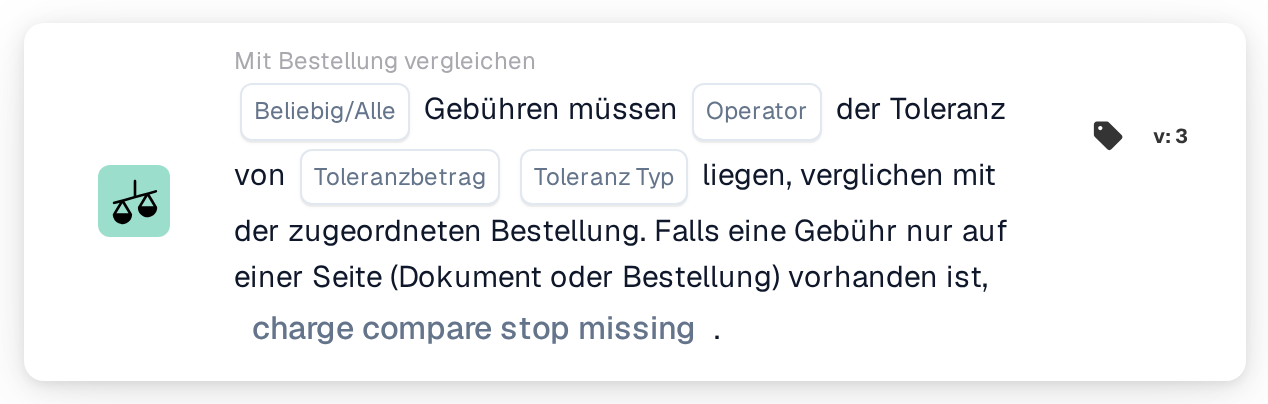
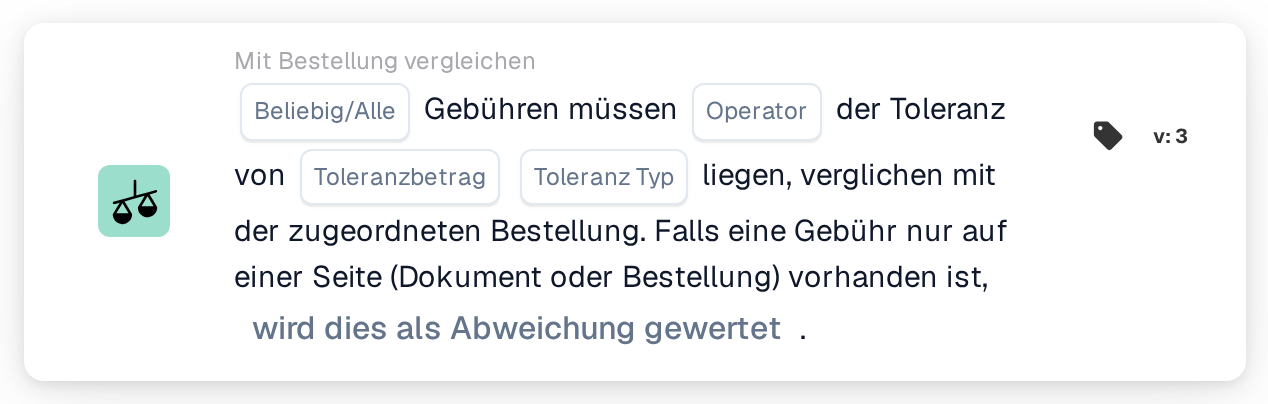
[Documentation_Workflow_Cards] [DRFS-871] add compare charges to po v4

Changed region(s): [[0.1845, 0.7723, 0.6151, 0.8614]]

diff --git a/public_docs/administration-and-setup/workflow/and/compare-with-purchase-order/any-all-charges.md b/public_docs/administration-and-setup/workflow/and/compare-with-purchase-order/any-all-charges.md
@@ -4,6 +4,8 @@
 
 <figure><img src="../../../../.gitbook/assets/workflow_card_condition_compare_charges_to_po_v3-de-de.png" alt="Beliebige oder alle Gebühren, Version 3" width="634"><figcaption><p>Version 3</p></figcaption></figure>
 
+<figure><img src="../../../../.gitbook/assets/workflow_card_condition_compare_charges_to_po_v4-de-de.png" alt="Workflow-Karte Mit Bestellung vergleichen: Beliebig/Alle Gebühren müssen Operator der Toleranz von Toleranzbetrag Toleranz Typ liegen, verglichen mit der zugeordneten Bestellung; eine Gebühr von 0,00 wird ebenfalls verglichen. Falls eine Gebühr nur auf einer Seite (Dokument oder Bestellung) vorhanden ist, Verhalten bei fehlenden Daten, Version 4" width="634"><figcaption><p>Version 4</p></figcaption></figure>
+
 ## **Zweck:**
 
 Diese Workflow-Karte vergleicht die Zusatzkosten eines Dokuments mit den Zusatzkosten der zugeordneten Bestellung, innerhalb einer festgelegten Toleranz. Sie beantwortet eine einzige Frage: Stimmen Dokument und Bestellung in den Zusatzkosten überein? Verglichen wird jede Gebühr, die der Bestellabgleich einander zugeordnet hat, weshalb auf der Karte kein Feldname angegeben werden muss.
@@ -31,8 +33,8 @@ Der Bestellabgleich muss vor dieser Karte laufen. Hat das Dokument keine zugeord
    * **Optionen**:
      * **Prozentsatz**: ein Prozentsatz der Bestellgebühr.
      * **Wert**: ein fester Betrag.
-5. **Verhalten bei fehlenden Daten (nur Version 3):**
-   * **Beschreibung**: Was geschehen soll, wenn eine Gebühr nur auf einer Seite vorhanden ist, im Dokument oder in der Bestellung, sodass es kein Gegenstück zum Vergleich gibt. Die Option steht am Ende des Satzes der Version 3.
+5. **Verhalten bei fehlenden Daten (Versionen 3 und 4):**
+   * **Beschreibung**: Was geschehen soll, wenn eine Gebühr nur auf einer Seite vorhanden ist, im Dokument oder in der Bestellung, sodass es kein Gegenstück zum Vergleich gibt. Die Option steht am Ende des Satzes.
    * **Optionen**:
      * **wird dies als Abweichung gewertet**: der Workflow stoppt. Das ist die Voreinstellung.
      * **Ignorieren Sie es und behandeln Sie es als Übereinstimmung.**: der Workflow läuft weiter, als hätte die Gebühr übereingestimmt.
@@ -43,7 +45,7 @@ Die Karte durchläuft die folgenden Schritte.
 
 1. **Sie setzt eine zugeordnete Bestellung voraus.** Ohne zugeordnete Bestellung stoppt die Karte sofort und meldet fehlende Daten.
 2. **Sie liest die Toleranz** aus **Toleranzbetrag** und **Toleranz Typ** auf der Karte.
-3. **Version 3 sortiert jede zugeordnete Bestellposition** in eine von vier Situationen ein und fragt dabei nur, ob eine Seite überhaupt Gebühren trägt: Gebühren auf beiden Seiten, keine Gebühren auf beiden Seiten, Gebühren nur im Dokument oder Gebühren nur in der Bestellung. Eine Position, die den Bestelldaten des Dokuments nicht zugeordnet werden kann, ist ein Datenfehler und die Karte stoppt.
+3. **Versionen 3 und 4 sortieren jede zugeordnete Bestellposition** in eine von vier Situationen ein: Gebühren auf beiden Seiten, keine Gebühren auf beiden Seiten, Gebühren nur im Dokument oder Gebühren nur in der Bestellung. Version 3 fragt nur, ob eine Seite eine Gebühr über 0,00 trägt. Version 4 betrachtet jedes Gebührenpaar und zählt 0,00 als Wert; nur eine Gebühr ganz ohne Betrag gilt als fehlend. Siehe **Unterschiede zwischen den Versionen** unten. Eine Position, die den Bestelldaten des Dokuments nicht zugeordnet werden kann, ist ein Datenfehler und die Karte stoppt.
 4. **Eine Gebühr auf nur einer Seite entscheidet die gesamte Karte.** Sobald eine zugeordnete Position Gebühren auf einer Seite und keine auf der anderen trägt, entscheidet **Verhalten bei fehlenden Daten** das Ergebnis, und es wird überhaupt keine Gebühr verglichen, auch nicht die Gebühren korrekt zugeordneter Positionen. Operator und Toleranz werden nicht herangezogen.
 5. **Trägt keine Position auf einer der beiden Seiten Gebühren**, stimmen beide Seiten darin überein, dass es keine Zusatzkosten gibt. Der Operator **Außerhalb** ist damit nicht erfüllt, weil nichts über die Toleranz hinaus abweicht, und der Workflow stoppt. Jeder andere Operator wertet die Übereinstimmung als erfüllt und der Workflow läuft weiter. **Verhalten bei fehlenden Daten** hat hier keine Wirkung.
 6. **Andernfalls wird jede Gebühr verglichen**, Dokumentbetrag gegen Bestellbetrag, mit Operator und Toleranz. Ein Gebührenbetrag, der keine Zahl ist, stoppt die Karte mit fehlenden Daten.
@@ -57,7 +59,7 @@ Drei Folgen sind vor dem Konfigurieren der Karte wichtig zu wissen.
 
 ## **Einrichtung und Konfiguration:**
 
-Fügen Sie die Karte als And-Bedingung nach dem Bestellabgleich ein. Wählen Sie, ob jede oder irgendeine Gebühr den Vergleich erfüllen muss, wählen Sie den Operator **innerhalb** oder **Außerhalb** und geben Sie Toleranzbetrag und Toleranz Typ ein. Wählen Sie in Version 3, was geschehen soll, wenn Gebühren nur auf einer Seite auftreten.
+Fügen Sie die Karte als And-Bedingung nach dem Bestellabgleich ein. Wählen Sie, ob jede oder irgendeine Gebühr den Vergleich erfüllen muss, wählen Sie den Operator **innerhalb** oder **Außerhalb** und geben Sie Toleranzbetrag und Toleranz Typ ein. Wählen Sie in den Versionen 3 und 4, was geschehen soll, wenn Gebühren nur auf einer Seite auftreten.
 
 Um eine Konfiguration ohne Warten auf ein Dokument zu prüfen, öffnen Sie das Kartenmenü im Workflow Builder, wählen **Testkarte**, wählen ein Dokument und dann **Test auf Dokument**. Das Kartenprotokoll listet jede verglichene Gebühr mit beiden Beträgen, dem Operator und der verwendeten Toleranz auf und hält außerdem fest, welcher Wert von **Verhalten bei fehlenden Daten** das Ergebnis entschieden hat, wenn eine Gebühr nur auf einer Seite vorhanden war.
 
@@ -71,9 +73,25 @@ Trägt weder die Auftragsbestätigung noch die Bestellung eine Gebühr, wertet d
 
 Trägt die Auftragsbestätigung eine Frachtgebühr und die Bestellung keine, gilt der Operator nicht mehr. Mit **wird dies als Abweichung gewertet** stoppt der Workflow, damit jemand prüfen kann, warum die Gebühr nur auf einer Seite steht.
 
+Zeigt die Auftragsbestätigung die Frachtgebühr mit 0,00, während die Bestellung 204,00 trägt, vergleicht Version 4 die beiden Beträge und der Workflow stoppt mit einer nicht erfüllten Bedingung. Version 3 würde die 0,00 als "keine Gebühr im Dokument" lesen und das Ergebnis **Verhalten bei fehlenden Daten** überlassen.
+
 ## **Unterschiede zwischen den Versionen:**
 
-Version 3 verwenden neue Karten. Version 2 wird in bestehenden Workflows weiter unterstützt. Beide Versionen vergleichen je Gebühr und fassen die Ergebnisse dokumentweit mit der Einstellung **Beliebig/Alle** zusammen, aber Version 2 hat keine Fallunterscheidung, was ändert, was geschieht, sobald Gebühren nicht auf beiden Seiten vorhanden sind:
+Version 4 verwenden neue Karten. Versionen 2 und 3 werden in bestehenden Workflows weiter unterstützt.
+
+### Version 4 im Vergleich zu Version 3
+
+Beide Versionen haben dieselben Einstellungen und dieselben Schritte. Sie unterscheiden sich nur darin, wie eine Gebühr von 0,00 behandelt wird:
+
+* **Version 3 wertet 0,00 als keine Gebühr.** Eine Dokumentgebühr von 0,00, der eine Bestellgebühr von 204,00 zugeordnet ist, zählt als "die Bestellung hat Gebühren, das Dokument keine", sodass **Verhalten bei fehlenden Daten** entscheidet und die Beträge nie verglichen werden. Mit **Ignorieren Sie es und behandeln Sie es als Übereinstimmung.** läuft der Workflow weiter, obwohl die Beträge abweichen.
+* **Version 4 vergleicht 0,00 als Betrag.** Dasselbe Paar wird wie jedes andere verglichen: 0,00 gegen 204,00 liegt nicht innerhalb der Toleranz, sodass der Workflow mit einer nicht erfüllten Bedingung stoppt. Ein Paar mit 0,00 auf beiden Seiten wird ebenfalls verglichen und stimmt überein.
+* **Eine Gebühr ohne Betrag fehlt auch in Version 4.** Hat eine Seite eines Paares überhaupt keinen Betrag, zum Beispiel eine Gebühr, die die Bestellung nicht trägt, entscheidet **Verhalten bei fehlenden Daten**, wie in Version 3.
+
+Um dieses Verhalten in einem bestehenden Workflow zu erhalten, ersetzen Sie die Karte der Version 3 durch eine Karte der Version 4 und stellen dieselben Werte ein.
+
+### Version 2
+
+Auch Version 2 vergleicht je Gebühr und fasst die Ergebnisse dokumentweit mit der Einstellung **Beliebig/Alle** zusammen, hat aber keine Fallunterscheidung, was ändert, was geschieht, sobald Gebühren nicht auf beiden Seiten vorhanden sind:
 
 * Version 2 hat keine Option **Verhalten bei fehlenden Daten**. Ihr Satz endet nach dem Toleranz Typ.
 * Version 2 sortiert die zugeordneten Positionen nicht und erkennt daher keine Gebühr, die nur auf einer Seite vorhanden ist. Sie vergleicht den vorhandenen Betrag gegen die 0,00 der fehlenden Seite, und der Operator entscheidet: **innerhalb** ist nicht erfüllt und der Workflow stoppt, **Außerhalb** ist erfüllt und der Workflow läuft weiter. Das Kartenprotokoll zeigt den Vergleich gegen 0,00.
@@ -81,4 +99,4 @@ Version 3 verwenden neue Karten. Version 2 wird in bestehenden Workflows weiter 
 
 ## **Fazit:**
 
-Die Karte "Any / All Charges" automatisiert die Prüfung, dass die in Rechnung gestellten oder bestätigten Zusatzkosten den bestellten Zusatzkosten entsprechen. Da das Fehlen von Gebühren auf beiden Seiten in Version 3 als Übereinstimmung gilt, laufen Dokumente ohne Zusatzkosten ohne manuellen Eingriff durch, während Gebühren, die nur auf einer Seite auftreten, zur Prüfung zurückgehalten werden, sofern das nicht ausdrücklich erlaubt wird.
+Die Karte "Any / All Charges" automatisiert die Prüfung, dass die in Rechnung gestellten oder bestätigten Zusatzkosten den bestellten Zusatzkosten entsprechen. Da das Fehlen von Gebühren auf beiden Seiten in den Versionen 3 und 4 als Übereinstimmung gilt, laufen Dokumente ohne Zusatzkosten ohne manuellen Eingriff durch, während Gebühren, die nur auf einer Seite auftreten, zur Prüfung zurückgehalten werden, sofern das nicht ausdrücklich erlaubt wird.
